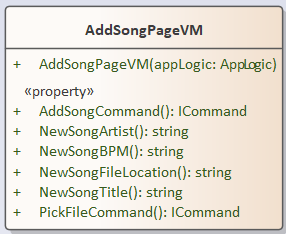
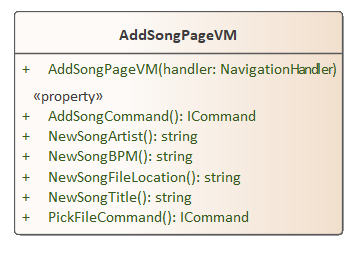
replaced class uml images in the viewmodel section of the document and edited the viewmodel section

diff --git a/Dokumente/02 - Entwurf/entwurf/2_app/viewmodel.tex b/Dokumente/02 - Entwurf/entwurf/2_app/viewmodel.tex
@@ -3,7 +3,7 @@
 \begin{document}
 
 \section{ViewModel}
-\includegraphics[scale=0.3]{../graphics/uml_diagramme/ViewModelDiagram.png}
+\includegraphics[scale=0.44,angle=90,origin=c]{../graphics/uml_diagramme/ViewModelDiagram.png}
 \subsection{AddSongPageVM}
 \begin{minipage}{0.45\textwidth}
 \includegraphics[scale=0.75]{../graphics/vm_klassen/AddSongPageVM.png}
@@ -13,92 +13,92 @@ Diese Klasse enthält die UI-Logik der \code{AddSongPage}. Sie stellt dieser öf
 \end{minipage}
 \paragraph{Attribute \& Properties}
 \begin{itemize}
-	\i{public string NewSongTitle} Hier wird der vom Nutzer eingegebene Titel eines neu hinzugefügten Lieds gespeichert.
-	\i{public string NewSongArtist} Hier wird der vom Nutzer eingegebene Künstlername eines neu hinzugefügten Lieds gespeichert.
-	\i{public string NewSongBPM} Hier wird der vom Nutzer eingegebene BPM-Wert eines neu hinzugefügten Lieds gespeichert.
-	\i{public string NewSongFileLocation} Hier wird der vom Nutzer spezifizierte Pfad eines neu hinzugefügten Lieds gespeichert.
-	\i{public ICommand\footnote{Stammt aus System.Windows.Input} AddSongCommand} Dieser Command führt die private Methode \code{AddSong()} aus. \glsnote{ro}
-	\i{public ICommand PickFileCommand} Dieser Command führt die private Methode \code{PickFile()} aus. \glsnote{ro}
+	\i{public string NewSongTitle} Hier wird der vom Nutzer eingegebene Titel eines Songs, der neu hinzugefügt werden soll, gespeichert.
+	\i{public string NewSongArtist} Hier wird der vom Nutzer eingegebene Künstlername eines Songs, der neu hinzugefügt werden soll, gespeichert.
+	\i{public string NewSongBPM} Hier wird der vom Nutzer eingegebene BPM-Wert eines Songs, der neu hinzugefügt werden soll, gespeichert.
+	\i{public string NewSongFileLocation} Hier wird der vom Nutzer spezifizierte Pfad eines Songs, der neu hinzugefügt werden soll, gespeichert.
+	\i{public ICommand\footnote{Stammt aus System.Windows.Input} AddSongCommand} Dieser Command fügt über private Methoden einen neuen Song zum Model hinzu, wobei \code{NewSongTitle}, \code{NewSongArtist}, \code{NewSongBPM} und \code{NewSongFileLocation} als Parameter dienen. \glsnote{ro}
+	\i{public ICommand PickFileCommand} Dieser Command erlaubt es über private Methoden, dem Nutzer die Datei eines Songs aus dem Dateiensystem des Smartphones auszuwählen. \glsnote{ro}
 \end{itemize}
 \paragraph{Methoden}
 \begin{itemize}
-	\i{public AddSongPageVM(AppLogic appLogic)} Der Konstruktor der Klasse initialisiert die Objekte \code{\_applogic}, \code{AddSongCommand} und \code{PickFileCommand}.
+	\i{public AddSongPageVM(NavigationHandler handler)} Der Konstruktor der Klasse initialisiert die Commands.
 \end{itemize}
 \subsection{AudioLibPageVM}
-\begin{minipage}{0.55\textwidth}
+\begin{minipage}{0.5\textwidth}
 \includegraphics[scale=0.75]{../graphics/vm_klassen/AudioLibPageVM.png}
 \end{minipage}
-\begin{minipage}{0.45\textwidth}
+\begin{minipage}{0.5\textwidth}
 Diese Klasse enthält die UI-Logik der \code{AudioLibPage}. Sie stellt dieser öffentliche Eigenschaften und Commands zur Verfügung, welche dort an Steuerelemente gebunden sind, um als Bindeglied zwischen der \code{AudioLibPage} und dem Model zu dienen.
 \end{minipage}
 \paragraph{Attribute \& Properties}
 \begin{itemize}
 	\i{public ObservableCollection<AudioTrack> Songs} Hier werden die Songs gespeichert, die in der View angezeigt werden sollen.
-	\i{public ICommand TitleSortCommand} Dieser Command führt die private Methode \code{TitleSort()} aus. \glsnote{ro}
-	\i{public ICommand ArtistSortCommand} Dieser Command führt die private Methode \code{ArtistSort()} aus. \glsnote{ro}
-	\i{public ICommand BPMSortCommand} Dieser Command führt die private Methode \code{BPMSort()} aus. \glsnote{ro}
-	\i{public ICommand PlaySongCommand} Dieser Command führt die private Methode \code{PlaySong()} mit dem in der View ausgewählten Song als Parameter aus. \glsnote{ro}
-	\i{public ICommand AddSongCommand} Dieser Command führt die private Methode \code{AddSong()} aus. \glsnote{ro}
-	\i{public ICommand SearchSongCommand} Dieser Command führt die private Methode \code{SearchSong()} mit dem in der View eingegeben Text als Parameter aus. \glsnote{ro}
+	\i{public ICommand TitleSortCommand} Dieser Command sortiert \code{Songs} alphabetisch nach Titel über private Methoden. \glsnote{ro}
+	\i{public ICommand ArtistSortCommand} Dieser Command sortiert \code{Songs} alphabetisch nach Künstler über private Methoden. \glsnote{ro}
+	\i{public ICommand BPMSortCommand} Dieser Command sortiert \code{Songs} aufsteigend nach BPM-Wert über private Methoden. \glsnote{ro}
+	\i{public ICommand PlaySongCommand} Dieser Command spielt den in der View ausgewählten Song über private Methoden ab. \glsnote{ro}
+	\i{public ICommand AddSongCommand} Dieser Command ermöglicht über private Methoden dem Nutzer, einen neuen Song zum Model hinzuzufügen. \glsnote{ro}
+	\i{public ICommand SearchSongCommand} Dieser Command sucht im Model nach einem Song, dessen Titel, Künstler oder BPM-Wert mit dem in der View eingegeben Text in Teilen übereinstimmt. \glsnote{ro}
 \end{itemize}
 \paragraph{Methoden}
 \begin{itemize}
-	\i{public AudioLibPageVM(AppLogic appLogic)} Der Konstruktor der Klasse initialisiert die Objekte \code{\_applogic}, \code{Songs} und die Commands.
+	\i{public AudioLibPageVM(NavigationHandler handler)} Der Konstruktor der Klasse initialisiert die Commands.
 	\i{public void GetSongs()} Diese Methode ruft die Songs ab, die im Model gespeichert sind und weist sie der Property \code{Songs} zu.
-	\i{public event PropertyChangedEventHandler PropertyChanged} Dieses Event wird genutzt um der View mitzuteilen, dass sich eine Property geändert hat.
+	\i{public event PropertyChangedEventHandler PropertyChanged} Dieser Eventhandler ermöglicht Kommunikation mit der View.
 \end{itemize}
 \subsection{AudioPlayerPageVM}
-\begin{minipage}{0.55\textwidth}
+\begin{minipage}{0.5\textwidth}
 \includegraphics[scale=0.75]{../graphics/vm_klassen/AudioPlayerPageVM.png}
 \end{minipage}
-\begin{minipage}{0.45\textwidth}
+\begin{minipage}{0.5\textwidth}
 Diese Klasse enthält die UI-Logik der \code{AudioPlayerPage}. Sie stellt dieser öffentliche Eigenschaften und Commands zur Verfügung, welche dort an Steuerelemente gebunden sind, um als Bindeglied zwischen der \code{AudioPlayerPage} und dem Model zu dienen.
 \end{minipage}
 \paragraph{Attribute \& Properties}
 \begin{itemize}
-	\i{public Boolean PausePlayBoolean} Dieser Boolean gibt an, ob der AudioPlayer momentan aktiv oder pausiert ist.
+	\i{public Boolean PausePlayBoolean} Dieser Boolean gibt an, ob der AudioPlayer im Model momentan aktiv oder pausiert ist.
 	\i{public AudioTrack AudioTrack} Hier wird der momentan im Model geladene Song gespeichert.
 	\i{public int Volume} Hier wird der Wert der Lautstärke gespeichert.
 	\i{public double CurrentPosition} Hier wird die aktuelle Position im momentan aktiven Song gespeichert.
 	\i{public Image Icon} Je nachdem ob der AudioPlayer aktiv oder pausiert ist, ist hier ein bestimmtes Bild gespeichert.
-	\i{public ICommand PausePlayCommand} Dieser Command führt die private Methode \code{PausePlay()} aus. \glsnote{ro}
-	\i{public ICommand PlayPrevCommand} Dieser Command führt die private Methode \code{PlayPrev()} aus. \glsnote{ro}
-	\i{public ICommand PlayNextCommand} Dieser Command führt die private Methode \code{PlayNext()} aus. \glsnote{ro}
-	\i{public ICommand ChangeVolumeCommand} Dieser Command führt die private Methode \code{ChangeVolume()} mit der in der View ausgewählten Lautstärke als Parameter aus.
-	\i{public ICommand MoveInSongCommand} Dieser Command führt die private Methode \code{MoveInSong()} mit der in der View ausgewählten Position als Parameter aus.
+	\i{public ICommand PausePlayCommand} Dieser Command pausiert/spielt den momentan im Model geladenen Song über private Methoden. \glsnote{ro}
+	\i{public ICommand PlayPrevCommand} Dieser Command spielt über private Methoden den Song ab, der sich im AudioPlayer des Models oben auf dem Stack befindet. \glsnote{ro}
+	\i{public ICommand PlayNextCommand} Dieser Command spielt über private Methoden den Song ab, der sich im AudioPlayer des Models am Anfang der Queue befindet. \glsnote{ro}
+	\i{public ICommand ChangeVolumeCommand} Dieser Command ändert die Laustärke im Model über private Methoden mit der in der View ausgewählten Lautstärke als Parameter.
+	\i{public ICommand MoveInSongCommand} Dieser Command bewegt den Abspielzeitpunkt des momentan im Model geladenen Songs über private Methoden mit der in der View ausgewählten Position als Parameter.
 \end{itemize}
 \paragraph{Methoden}
 \begin{itemize}
-	\i{public AudioPlayerPageVM(AppLogic appLogic)} Der Konstruktor der Klasse initialisiert die Objekte \code{\_applogic}, die Icons und die Commands.
+	\i{public AudioPlayerPageVM()} Der Konstruktor der Klasse initialisiert die Icons und die Commands.
 	\i{public void GetAudioTrack()} Diese Methode ruft den im Model momentan geladenen Song ab und weist sie der Property \code{Songs} zu.
 	\i{public void GetPausePlayBoolean()} Diese Methode ruft im Model ab, ob der Audioplayer aktiv oder pausiert werden soll und weist den Boolean der Property \code{PausePlayBoolean} zu.
 	\i{public void GetVolume()} Diese Methode ruft im Model ab, ob der Audioplayer aktiv oder pausiert werden soll und weist den Boolean der Property \code{PausePlayBoolean} zu.
-	\i{public event PropertyChangedEventHandler PropertyChanged} Dieses Event wird genutzt um der View mitzuteilen, dass sich eine Property geändert hat.
+	\i{public event PropertyChangedEventHandler PropertyChanged} Dieser Eventhandler ermöglicht Kommunikation mit der View.
 \end{itemize}
 \subsection{ConnectionPageVM}
-\begin{minipage}{0.55\textwidth}
+\begin{minipage}{0.5\textwidth}
 \includegraphics[scale=0.75]{../graphics/vm_klassen/ConnectionPageVM.png}
 \end{minipage}
-\begin{minipage}{0.45\textwidth}
+\begin{minipage}{0.5\textwidth}
 Diese Klasse enthält die UI-Logik der \code{ConnectionPage}. Sie stellt dieser öffentliche Eigenschaften und Commands zur Verfügung, welche dort an Steuerelemente gebunden sind, um als Bindeglied zwischen der \code{ConnectionPage} und dem Model zu dienen.
 \end{minipage}
 \paragraph{Attribute \& Properties}
 \begin{itemize}
 	\i{public ObservableCollection<IEarable> Devices} Hier werden die Geräte gepeichert die in der View angezeigt werden sollen.
-	\i{public ICommand RefreshDevicesCommand} Dieser Command führt die private Methode \code{RefreshDevices()} aus. \glsnote{ro}
-	\i{public ICommand ConnectToDeviceCommand} Dieser Command führt die private Methode \code{ConnectToDevice()} mit dem in der View ausgewähltem Gerät als Parameter aus. \glsnote{ro}
+	\i{public ICommand RefreshDevicesCommand} Dieser Command aktualisiert über private Methoden \code{Devices} mit den Geräten die im Model gefunden werden. \glsnote{ro}
+	\i{public ICommand ConnectToDeviceCommand} Dieser Command versucht über private Methoden eine Verbindung mit dem in der View ausgewähltem Gerät aufzubauen. \glsnote{ro}
 \end{itemize}
 \paragraph{Methoden}
 \begin{itemize}
-	\i{public ConnectionPageVM(AppLogic appLogic)} Der Konstruktor der Klasse initialisiert die Objekte \code{\_applogic}, \code{Devices} und die Commands.
-	\i{public void RefreshDevices()} Diese Methode ruft den im Model momentan erkannten Geräte ab und fügt sie der Property \code{Devices} hinzu.
-	\i{public event PropertyChangedEventHandler PropertyChanged} Dieses Event wird genutzt um der View mitzuteilen, dass sich eine Property geändert hat.
+	\i{public ConnectionPageVM(NavigationHandler handler)} Der Konstruktor der Klasse initialisiert die Commands.
+	\i{public void RefreshDevices()} Diese Methode ruft die im Model momentan erkannten Geräte ab und fügt sie der Property \code{Devices} hinzu.
+	\i{public event PropertyChangedEventHandler PropertyChanged} Dieser Eventhandler ermöglicht Kommunikation mit der View.
 \end{itemize}
 \subsection{MainPageVM}
-\begin{minipage}{0.55\textwidth}
+\begin{minipage}{0.5\textwidth}
 \includegraphics[scale=0.75]{../graphics/vm_klassen/MainPageVM.png}
 \end{minipage}
-\begin{minipage}{0.45\textwidth}
+\begin{minipage}{0.5\textwidth}
 Diese Klasse enthält die UI-Logik der \code{MainPage}. Sie stellt dieser öffentliche Eigenschaften und Commands zur Verfügung, welche dort an Steuerelemente gebunden sind, um als Bindeglied zwischen der \code{MainPage} und dem Model zu dienen.
 \end{minipage}
 \paragraph{Attribute \& Properties}
@@ -107,43 +107,43 @@ Diese Klasse enthält die UI-Logik der \code{MainPage}. Sie stellt dieser öffen
 	\i{public string StepsAmount} Hier wird die Anzahl der Schritte seit dem letzten Reset gespeichert, falls keine Verbindung zu einem Gerät besteht, hat der String den wert null.
 	\i{public Boolean ConnectBoolean} Dieser Boolean gibt an, ob eine Verbindung zu einem Gerät besteht.
 	\i{public Image Icon} Je nachdem ob eine Verbindung zu einem Gerät besteht oder nicht, ist hier ein bestimmtes Bild gespeichert.
-	\i{public ICommand AudioPlayerPageCommand} Dieser Command führt die private Methode \code{GotoAudioPlayerPage()} aus. \glsnote{ro}
-	\i{public ICommand AudioLibPageCommand} Dieser Command führt die private Methode \code{GotoAudioLibPage()} aus. \glsnote{ro}
-	\i{public ICommand ConnectionPageCommand} Dieser Command führt die private Methode \code{GotoConnectionPage()} aus. \glsnote{ro}
-	\i{public ICommand ModesPageCommand} Dieser Command führt die private Methode \code{GotoModesPage()} aus. \glsnote{ro}
-	\i{public ICommand SettingsPageCommand} Dieser Command führt die private Methode \code{GotoSettingsPage()} aus. \glsnote{ro}
+	\i{public ICommand AudioPlayerPageCommand} Dieser Command ändert die Ansicht der App über private Methoden zur AudioPlayerPage. \glsnote{ro}
+	\i{public ICommand AudioLibPageCommand} Dieser Command ändert die Ansicht der App über private Methoden zur AudioLibPage. \glsnote{ro}
+	\i{public ICommand ConnectionPageCommand} Dieser Command ändert die Ansicht der App über private Methoden zur ConnectionPage. \glsnote{ro}
+	\i{public ICommand ModesPageCommand} Dieser Command ändert die Ansicht der App über private Methoden zur ModesPage. \glsnote{ro}
+	\i{public ICommand SettingsPageCommand} Dieser Command ändert die Ansicht der App über private Methoden zur SettingsPage. \glsnote{ro}
 \end{itemize}
 \paragraph{Methoden}
 \begin{itemize}
-	\i{public MainPageVM(AppLogic appLogic)} Der Konstruktor der Klasse initialisiert die Objekte \code{\_applogic}, die Icons und die Commands.
-	\i{public void GetDeviceName()} Diese Methode ruft den Namen des momentan verbundenen Gerätes ab und weist sie der Property \code{DeviceName} zu.
+	\i{public MainPageVM(AppLogic appLogic)} Der Konstruktor der Klasse initialisiert die Icons und die Commands.
+	\i{public void GetDeviceName()} Diese Methode ruft den Namen des momentan verbundenen Gerätes im Model ab und weist sie der Property \code{DeviceName} zu.
 	\i{public void GetStepsAmount()} Diese Methode ruft im Model ab, wie viele Schritte seit dem letztem Reset gemacht wurden und weist den Wert der Property \code{StepsAmount} zu.
 	\i{public void GetConnectBoolean()} Diese Methode ruft im Model ab, ob momentan eine Verbindung zu einem Gerät besteht und weist den Boolean der Property \code{ConnectBoolean} zu.
-	\i{public event PropertyChangedEventHandler PropertyChanged} Dieses Event wird genutzt um der View mitzuteilen, dass sich eine Property geändert hat.
+	\i{public event PropertyChangedEventHandler PropertyChanged} Dieser Eventhandler ermöglicht Kommunikation mit der View.
 \end{itemize}
 \subsection{ModesPageVM}
-\begin{minipage}{0.55\textwidth}
+\begin{minipage}{0.5\textwidth}
 \includegraphics[scale=0.75]{../graphics/vm_klassen/ModesPageVM.png}
 \end{minipage}
-\begin{minipage}{0.45\textwidth}
+\begin{minipage}{0.5\textwidth}
 Diese Klasse enthält die UI-Logik der \code{ModesPage}. Sie stellt dieser öffentliche Eigenschaften und Commands zur Verfügung, welche dort an Steuerelemente gebunden sind, um als Bindeglied zwischen der \code{ModesPage} und dem Model zu dienen.
 \end{minipage}
 \paragraph{Attribute \& Properties}
 \begin{itemize}
 	\i{public ObservableCollection<Mode> Modes} Hier werden die Modi gespeichert, die in der View angezeigt werden sollen.
-	\i{public ICommand ActivateModeCommand} Dieser Command führt die private Methode \code{ActivateMode()} mit dem in der View ausgewählten Modus als Parameter aus. \glsnote{ro}
+	\i{public ICommand ActivateModeCommand} Dieser Command aktiviert über private Methoden im Model den in der View ausgewählten Modus. \glsnote{ro}
 \end{itemize}
 \paragraph{Methoden}
 \begin{itemize}
-	\i{public ModesPageVM(AppLogic appLogic)} Der Konstruktor der Klasse initialisiert die Objekte \code{\_applogic} und die Commands.
+	\i{public ModesPageVM()} Der Konstruktor der Klasse initialisiert die Commands.
 	\i{public void GetModes()} Diese Methode ruft die im Model vorhandenen Modi ab und weist sie der Property \code{Modes} zu.
-	\i{public event PropertyChangedEventHandler PropertyChanged} Dieses Event wird genutzt um der View mitzuteilen, dass sich eine Property geändert hat.
+	\i{public event PropertyChangedEventHandler PropertyChanged} Dieser Eventhandler ermöglicht Kommunikation mit der View.
 \end{itemize}
 \subsection{SettingsPageVM}
-\begin{minipage}{0.55\textwidth}
+\begin{minipage}{0.5\textwidth}
 \includegraphics[scale=0.75]{../graphics/vm_klassen/SettingsPageVM.png}
 \end{minipage}
-\begin{minipage}{0.45\textwidth}
+\begin{minipage}{0.5\textwidth}
 Diese Klasse enthält die UI-Logik der \code{SettingsPage}. Sie stellt dieser öffentliche Eigenschaften und Commands zur Verfügung, welche dort an Steuerelemente gebunden sind, um als Bindeglied zwischen der \code{SettingsPage} und dem Model zu dienen.
 \end{minipage}
 \paragraph{Attribute \& Properties}
@@ -151,31 +151,31 @@ Diese Klasse enthält die UI-Logik der \code{SettingsPage}. Sie stellt dieser ö
 	\i{public ObservableCollection<Lang> Languages} Hier werden die Sprachen gespeichert, die in der View angezeigt werden sollen.
 	\i{public Lang SelectedLanguage} Hier wird die Sprache gespeichert, die in der View als ausgewählt angezeigt wird.
 	\i{public string DeviceName} Hier wird der Name des momentan verbundenen Geräts gepeichert der in der View angezeigt wird.
-	\i{public ICommand ChangeDeviceNameCommand} Dieser Command führt die private Methode \code{ChangeDeviceName()} mit dem in der View eingegebenen Text als Parameter aus. \glsnote{ro}
-	\i{public ICommand ChangeLanguageCommand} Dieser Command führt die private Methode \code{ChangeLanguage()} mit der in der View ausgewählten Sprache als Parameter aus. \glsnote{ro}
-	\i{public ICommand ResetStepsCommand} Dieser Command führt die private Methode \code{ResetSteps()} aus. \glsnote{ro}
+	\i{public ICommand ChangeDeviceNameCommand} Dieser Command setzt über private Methoden im Model den Namen des Geräts auf den in der View eingegebenen Text. \glsnote{ro}
+	\i{public ICommand ChangeLanguageCommand} Dieser Command ändert über private Methoden im Model die Sprache auf die in der View ausgewählten Sprache. \glsnote{ro}
+	\i{public ICommand ResetStepsCommand} Dieser Command setzt über private Methoden die Schrittanzahl im Model zurück. \glsnote{ro}
 \end{itemize}
 \paragraph{Methoden}
 \begin{itemize}
-	\i{public SettingsPageVM(AppLogic appLogic)} Der Konstruktor der Klasse initialisiert die Objekte \code{\_applogic} und die Commands.
+	\i{public SettingsPageVM()} Der Konstruktor der Klasse initialisiert die Commands.
 	\i{public void RefreshLanguages()} Diese Methode ruft die im Model vorhandenen Sprachen ab und weist sie der Property \code{Languages} zu.
 	\i{public void GetSelectedLanguage()} Diese Methode ruft die im Model ausgewählte Sprache ab und weist sie der Property \code{SelectedLanguage} zu.
 	\i{public void GetDeviceName()} Diese Methode ruft den Namen des momentan verbundenen Gerätes im Model ab und weist ihn der Property \code{DeviceName} zu.
-	\i{public event PropertyChangedEventHandler PropertyChanged} Dieses Event wird genutzt um der View mitzuteilen, dass sich eine Property geändert hat.
+	\i{public event PropertyChangedEventHandler PropertyChanged} Dieser Eventhandler ermöglicht Kommunikation mit der View.
 \end{itemize}
 \subsection{NavigationHandler}
-\begin{minipage}{0.55\textwidth}
+\begin{minipage}{0.45\textwidth}
 \includegraphics[scale=0.75]{../graphics/vm_klassen/NavigationHandler.png}
 \end{minipage}
-\begin{minipage}{0.45\textwidth}
-Diese Klasse ermöglicht den verschiedenen Klassen der Viewmodels die Ansicht der App auf andere ContentPages der View zu ändern.
+\begin{minipage}{0.55\textwidth}
+Diese Klasse ermöglicht den verschiedenen Klassen der ViewModels die Ansicht der App auf andere ContentPages der View zu ändern.
 \end{minipage}
 \paragraph{Attribute \& Properties}
 \paragraph{Methoden}
 \begin{itemize}
 	\i{public void SetPages(ContentPage[] pages)} Diese Methode speichert das übergebene Array in der Klasse ab.
-	\i{public async void GotoPage(String name)} Diese Methode ändert die Ansicht der View auf die Page deren Namen dem übergebenen String entspricht.
-	\i{public async void GoBack()} Diese Methode ändert die Ansicht der View auf die Page die zuvor angezeigt wurde.
+	\i{public async void GotoPage(String name)} Diese Methode ändert die Ansicht der App auf die ContentPage deren Namen dem übergebenen String entspricht.
+	\i{public async void GoBack()} Diese Methode ändert die Ansicht der App auf die ContentPage die zuvor angezeigt wurde.
 \end{itemize}
 
 \end{document}
